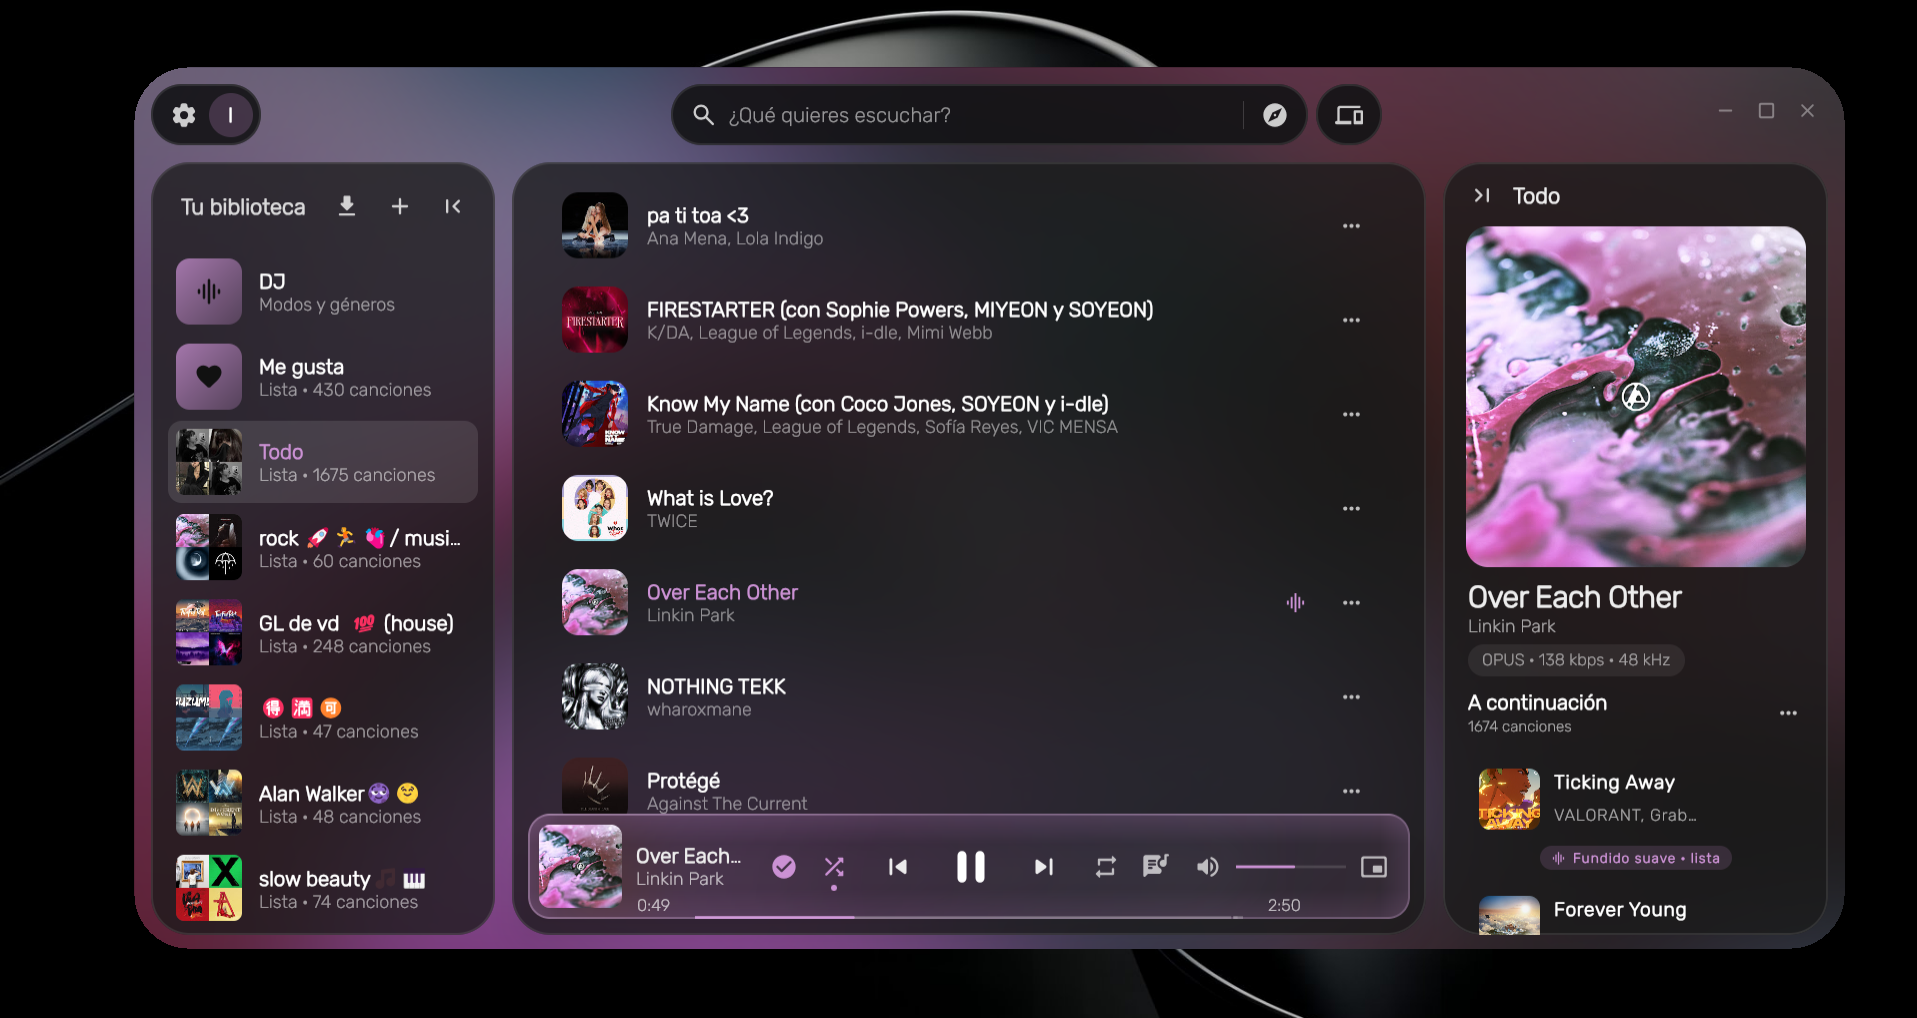
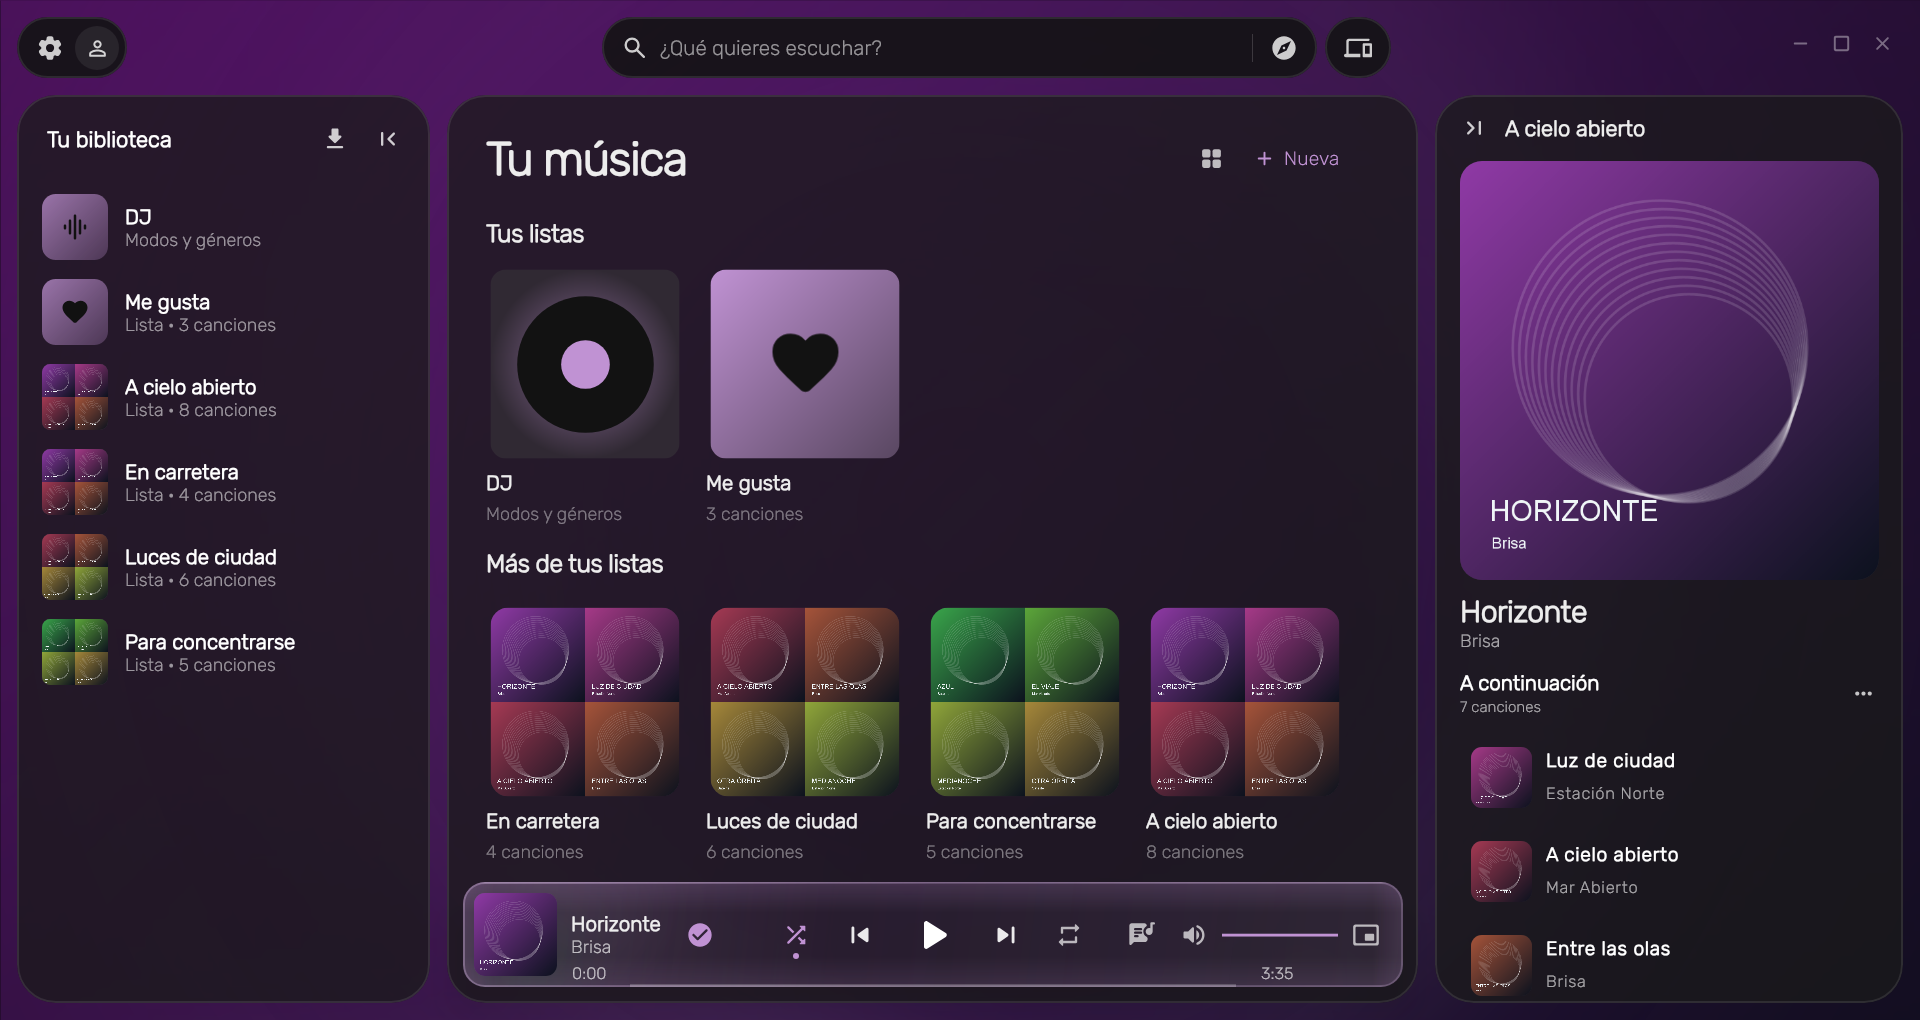
test(desktop): corregir expectativas de plataforma y esperas del DJ
Comprueba Extras según el sistema, espera estados coherentes en el DJ y amplía el diagnóstico de descargas. Ejecuta el script del actualizador con procesos aislados y sustituye la captura del README por datos ficticios con acento morado.

diff --git a/desktopApp/src/test/kotlin/io/github/iaguito22/oto/desktop/DesktopUpdatesTest.kt b/desktopApp/src/test/kotlin/io/github/iaguito22/oto/desktop/DesktopUpdatesTest.kt
@@ -4,6 +4,10 @@ import org.junit.Assert.assertEquals
 import org.junit.Assert.assertTrue
 import org.junit.Assume.assumeTrue
 import org.junit.Test
+import java.io.File
+import java.nio.file.Files
+import java.util.Base64
+import java.util.concurrent.TimeUnit
 
 class DesktopUpdatesTest {
     /** El script que instala la actualización se analiza sin errores en PowerShell 5.1 (no se ejecuta). */
@@ -20,5 +24,53 @@ class DesktopUpdatesTest {
     @Test fun elScriptVuelveAAbrirOtoAlAcabar() {
         val finally = installerScript.substringAfter("finally {")
         assertTrue("OTO_UPDATE_RELAUNCH" in finally && "Start-Process -FilePath \$env:OTO_UPDATE_RELAUNCH" in finally)
+    }
+
+    /** Ejecuta el script real y la espera al proceso; sustituye únicamente el instalador y el lanzador. */
+    @Test fun esperaAlCierreYLimpiaYReabreAunqueNoArranqueElInstalador() {
+        assumeTrue(System.getProperty("os.name").startsWith("Windows"))
+        val root = Files.createTempDirectory("oto actualización ' & ").toFile()
+        try {
+            for (installerFails in listOf(false, true)) {
+                val msi = File(root, "Oto prueba.msi").apply { writeText("instalador simulado") }
+                val launcher = File(root, "Oto.exe").apply { writeText("lanzador simulado") }
+                val parent = ProcessBuilder("powershell.exe", "-NoProfile", "-NonInteractive", "-Command", "Start-Sleep -Milliseconds 800").start()
+                val script = """
+                    ${'$'}ErrorActionPreference = 'Stop'
+                    function Start-Process {
+                        param([string]${'$'}FilePath, [string]${'$'}ArgumentList, [switch]${'$'}Wait)
+                        if (Get-Process -Id ${'$'}env:OTO_UPDATE_PARENT_PID -ErrorAction SilentlyContinue) { throw 'Oto sigue abierto' }
+                        if (${'$'}FilePath -like '*msiexec.exe') {
+                            if (-not ${'$'}Wait) { throw 'No espera al instalador' }
+                            if (${'$'}ArgumentList -cne ('/i "' + ${'$'}env:OTO_UPDATE_MSI + '"')) { throw 'Ruta MSI alterada' }
+                            Write-Output 'instalador invocado'
+                            ${if (installerFails) "throw 'No se pudo abrir el instalador'" else ""}
+                        } elseif (${'$'}FilePath -ceq ${'$'}env:OTO_UPDATE_RELAUNCH) {
+                            if (Test-Path -LiteralPath ${'$'}env:OTO_UPDATE_MSI) { throw 'MSI sin limpiar' }
+                            Write-Output 'Oto reabierto'
+                        } else { throw 'Lanzamiento inesperado' }
+                    }
+                    $installerScript
+                """.trimIndent()
+                val encoded = Base64.getEncoder().encodeToString(script.toByteArray(Charsets.UTF_16LE))
+                val process = ProcessBuilder("powershell.exe", "-NoProfile", "-NonInteractive", "-EncodedCommand", encoded)
+                    .redirectErrorStream(true).apply {
+                        environment()["OTO_UPDATE_PARENT_PID"] = parent.pid().toString()
+                        environment()["OTO_UPDATE_MSI"] = msi.absolutePath
+                        environment()["OTO_UPDATE_RELAUNCH"] = launcher.absolutePath
+                    }.start()
+                try {
+                    assertTrue("el script no terminó", process.waitFor(20, TimeUnit.SECONDS))
+                    val output = process.inputStream.bufferedReader().readText()
+                    assertEquals(output, if (installerFails) 1 else 0, process.exitValue())
+                    assertTrue(output, output.indexOf("instalador invocado") >= 0)
+                    assertTrue(output, output.indexOf("Oto reabierto") > output.indexOf("instalador invocado"))
+                    assertTrue("el MSI se elimina tras el instalador", !msi.exists())
+                } finally {
+                    process.destroy()
+                    parent.destroy()
+                }
+            }
+        } finally { root.deleteRecursively() }
     }
 }

diff --git a/desktopApp/src/test/kotlin/io/github/iaguito22/oto/desktop/playback/DesktopDjConnectionTest.kt b/desktopApp/src/test/kotlin/io/github/iaguito22/oto/desktop/playback/DesktopDjConnectionTest.kt
@@ -17,7 +17,9 @@ import io.github.iaguito22.oto.lyrics.LyricsStore
 import kotlinx.coroutines.CoroutineScope
 import kotlinx.coroutines.Dispatchers
 import kotlinx.coroutines.SupervisorJob
-import kotlinx.coroutines.cancel
+import kotlinx.coroutines.cancelAndJoin
+import kotlinx.coroutines.Job
+import kotlinx.coroutines.flow.combine
 import kotlinx.coroutines.flow.first
 import kotlinx.coroutines.runBlocking
 import kotlinx.coroutines.withTimeout
@@ -117,7 +119,7 @@ class DesktopDjConnectionTest {
                 test(player, songs)
             }
         } finally {
-            scope.cancel()
+            runBlocking { scope.coroutineContext[Job]!!.cancelAndJoin() }
             root.deleteRecursively()
         }
     }
@@ -168,32 +170,39 @@ class DesktopDjConnectionTest {
 
         val vetoedId = player.djNextUp.value[1].track.id
         player.vetoDjNextUp(vetoedId)
-        withTimeout(10_000L) {
-            player.djNextUp.first { picks -> picks.size >= 3 && picks.none { it.track.id == vetoedId } }
+        // Son dos StateFlow distintos: observar nextUp no implica que queue ya haya emitido.
+        val (nextUpIds, futureQueueIds) = withTimeout(10_000L) {
+            combine(player.djNextUp, player.queue) { picks, queue ->
+                picks.map { it.track.id } to queue.drop(player.state.value.index + 1).map { it.id }
+            }.first { (picks, queue) -> picks.size >= 3 && vetoedId !in picks && queue.startsWith(picks) }
         }
-        val nextUpIds = player.djNextUp.value.map { it.track.id }
         assertFalse("El tema vetado no debe seguir en djNextUp", vetoedId in nextUpIds)
-        val futureQueueIds = player.queue.value.drop(player.state.value.index + 1).map { it.id }
         assertEquals(nextUpIds, futureQueueIds.take(nextUpIds.size))
 
         val beforeTrackId = player.state.value.id
         val tandaBefore = player.djTanda.value
         player.skipDjTanda()
-        withTimeout(10_000L) {
-            player.state.first { it.id != null && it.id != beforeTrackId }
-            player.djNextUp.first { it.size >= 2 }
+        val after = withTimeout(10_000L) {
+            combine(player.state, player.djNextUp, player.queue, player.djTanda) { now, picks, queue, tanda ->
+                DjQueueSnapshot(now.id, tanda, picks.map { it.track.id }, queue.drop(now.index + 1).map { it.id })
+            }.first { snapshot ->
+                snapshot.id != null && snapshot.id != beforeTrackId && snapshot.tanda != null &&
+                    snapshot.tanda != tandaBefore && snapshot.picks.size >= 2 && snapshot.queue.startsWith(snapshot.picks)
+            }
         }
-        val newTrackId = player.state.value.id
+        val newTrackId = after.id
         assertNotNull(newTrackId)
-        assertNotNull("djTanda debe actualizarse con el género de la nueva tanda", player.djTanda.value)
-        assertNotEquals("djTanda debe cambiar de género al saltar ambiente", tandaBefore, player.djTanda.value)
-        assertFalse("djTanda no debe incluir 'Como ...'", player.djTanda.value!!.contains("como", ignoreCase = true))
+        assertNotNull("djTanda debe actualizarse con el género de la nueva tanda", after.tanda)
+        assertNotEquals("djTanda debe cambiar de género al saltar ambiente", tandaBefore, after.tanda)
+        assertFalse("djTanda no debe incluir 'Como ...'", after.tanda!!.contains("como", ignoreCase = true))
         assertTrue(
             "La cola futura tras skipDjTanda debe reflejar los nuevos nextUp",
-            player.queue.value.drop(player.state.value.index + 1).map { it.id }.startsWith(player.djNextUp.value.map { it.track.id }),
+            after.queue.startsWith(after.picks),
         )
     }
 
     private fun <T> List<T>.startsWith(prefix: List<T>): Boolean =
         size >= prefix.size && subList(0, prefix.size) == prefix
+
+    private data class DjQueueSnapshot(val id: String?, val tanda: String?, val picks: List<String>, val queue: List<String>)
 }

diff --git a/desktopApp/src/test/kotlin/io/github/iaguito22/oto/desktop/playback/DesktopDownloadsTest.kt b/desktopApp/src/test/kotlin/io/github/iaguito22/oto/desktop/playback/DesktopDownloadsTest.kt
@@ -8,12 +8,14 @@ import org.junit.Assert.*
 import org.junit.Test
 import java.io.File
 import java.nio.file.Files
+import java.util.concurrent.CopyOnWriteArrayList
 
 class DesktopDownloadsTest {
     @Test fun removingActiveDownloadCancelsWorkBeforeDeletingWindowsFiles(): Unit = runBlocking {
         val root = Files.createTempDirectory("oto-download-cancel").toFile()
         OtoDirs.init(root, File(root, "cache"))
-        val scope = CoroutineScope(SupervisorJob() + Dispatchers.Default)
+        val errors = CopyOnWriteArrayList<Throwable>()
+        val scope = CoroutineScope(SupervisorJob() + Dispatchers.Default + CoroutineExceptionHandler { _, error -> errors += error })
         val prefs = Prefs(
             PreferenceDataStoreFactory.create(scope = scope, produceFile = { File(root, "prefs.preferences_pb") }),
             PreferenceDataStoreFactory.create(scope = scope, produceFile = { File(root, "lists.preferences_pb") }),
@@ -31,12 +33,18 @@ class DesktopDownloadsTest {
             val song = Heard("test", "Prueba", "Codex", null)
             prefs.setDownloadSong(song, true)
             // Márgenes amplios: en la CI o con otra compilación a la vez, 5 s no llegaban (no es una prueba de velocidad).
-            assertNotNull("la descarga no empezó", withTimeoutOrNull(30_000) { started.await() })
+            val begun = withTimeoutOrNull(30_000) { started.await() }
+            assertNotNull("la descarga no empezó; entradas=${downloads.entries.value}; errores=${errors.joinToString { it.stackTraceToString() }}", begun)
             prefs.setDownloadSong(song, false)
             assertNotNull("no se canceló la descarga en curso", withTimeoutOrNull(30_000) { cancelled.await() })
             assertNotNull("la entrada siguió en la lista", withTimeoutOrNull(30_000) { downloads.entries.first { "test" !in it } })
             assertFalse(part.exists())
             assertFalse(downloads.has("test"))
-        } finally { downloads.stop(); scope.cancel(); root.deleteRecursively() }
+            assertTrue("errores en las corrutinas: $errors", errors.isEmpty())
+        } finally {
+            downloads.stop()
+            scope.coroutineContext[Job]!!.cancelAndJoin()
+            root.deleteRecursively()
+        }
     }
 }

diff --git a/desktopApp/src/test/kotlin/io/github/iaguito22/oto/desktop/ui/ExtrasSpaceUiTest.kt b/desktopApp/src/test/kotlin/io/github/iaguito22/oto/desktop/ui/ExtrasSpaceUiTest.kt
@@ -12,6 +12,7 @@ import androidx.compose.ui.input.pointer.PointerEventType
 import androidx.compose.ui.unit.Density
 import io.github.iaguito22.oto.OtoDirs
 import io.github.iaguito22.oto.desktop.wallpaper.WallpaperStore
+import io.github.iaguito22.oto.desktop.wallpaper.wallpaperSupported
 import org.jetbrains.skia.EncodedImageFormat
 import org.junit.Assert.assertEquals
 import org.junit.Assert.assertTrue
@@ -44,19 +45,24 @@ class ExtrasSpaceUiTest {
         val scene = ImageComposeScene(760, 1500, Density(1f)) {
             Box(Modifier.fillMaxSize().background(Color(0xFF151A18))) { ExtrasSpace(Color(0xFF8FD0C6), onBack = { back = true }) }
         }
-        scene.shot("1-inicio")
-        // fila «Fondo de escritorio vivo»: debajo de la cabecera
-        scene.click(380f, Y_TOGGLE)
-        scene.shot("2-encendido")
-        assertTrue("el clic enciende el fondo", WallpaperStore.enabled.value)
-        scene.click(380f, Y_TOGGLE)
-        assertEquals("y lo apaga", false, WallpaperStore.enabled.value)
-        // apartado «Fondo» (plegado) → se abre y se elige «Negro»
-        scene.click(380f, Y_FONDO)
-        scene.shot("3-fondo-abierto")
-        scene.click(30f, 30f)
-        assertTrue("la cabecera vuelve a Ajustes", back)
-        scene.close()
+        try {
+            scene.shot("1-inicio")
+            // fila «Fondo de escritorio vivo»: debajo de la cabecera
+            scene.click(380f, Y_TOGGLE)
+            scene.shot("2-tras-clic")
+            assertEquals("solo Windows permite encender el fondo", wallpaperSupported, WallpaperStore.enabled.value)
+            scene.click(380f, Y_TOGGLE)
+            assertEquals("y lo apaga", false, WallpaperStore.enabled.value)
+            // apartado «Fondo» (plegado) → se abre
+            scene.click(380f, Y_FONDO)
+            scene.shot("3-fondo-abierto")
+            scene.click(30f, 30f)
+            assertTrue("la cabecera vuelve a Ajustes", back)
+        } finally {
+            scene.close()
+            WallpaperStore.setEnabled(false)
+            dir.deleteRecursively()
+        }
     }
 
     companion object { const val Y_TOGGLE = 120f; const val Y_FONDO = 1248f }

diff --git a/docs/agents/pendientes.md b/docs/agents/pendientes.md
@@ -4,9 +4,9 @@
 
 ## Tras la 2.3.0
 
-- CI en Linux (26/11, run 45786446979): fallan 3 tests del escritorio que en Windows pasan. `ExtrasSpaceUiTest` («el clic enciende el fondo»: ¿la fila cae en otra posición con las fuentes de Linux?), `DesktopDownloadsTest` («la descarga no empezó» en 30 s) y `DesktopDjConnectionTest.vetoDjNextUp…` (sale `[chill-2, chill-6, rock-9]`, se esperaba `[chill-2, rock-7, rock-8]`). Informes en el artefacto `informes-tests` del run.
-- Rehacer la captura del README (`docs/escritorio-una-ventana.png`) con un perfil de prueba: aún sale el «+» de «Crear lista» y se ven las listas reales de Iago.
-- Actualizador: la 2.3.0 es la primera que lo lleva. En Windows no está probado de verdad lo que pasa tras descargar (cerrar Oto, abrir el MSI y volver a abrir Oto): probarlo con la 2.3.1. Sí está comprobado con red: consulta, elección del archivo, descarga por la redirección de GitHub y SHA-256 (`OTO_UPDATE_LIVE=1`, `OtoUpdatesLiveTest`).
+- CI en Linux (26/11, run 45786446979): pendiente de volver a ejecutar con las correcciones locales. `ExtrasSpaceUiTest` esperaba encender una función exclusiva de Windows: ahora comprueba que en Linux permanece apagada y que se puede volver a Ajustes. `DesktopDjConnectionTest.vetoDjNextUp…` leía `djNextUp` y `queue` entre sus emisiones: ahora espera una instantánea coherente, también al saltar de tanda. Los tests de escritorio pasan en Windows; aún sin validar estos cambios en Linux.
+- `DesktopDownloadsTest` en esa misma CI: «la descarga no empezó» en 30 s. No reproducido con los tests de escritorio en Windows; causa sin confirmar. Se añaden el estado de las entradas y las excepciones de las corrutinas al fallo, y se espera su cancelación antes de borrar el perfil de prueba. No darlo por arreglado hasta reproducirlo o verificarlo en Linux. Informes originales en el artefacto `informes-tests` del run.
+- Actualizador: la 2.3.0 es la primera que lo lleva. Falta probar la actualización real por MSI con la 2.3.1. `DesktopUpdatesTest` ejecuta en Windows el script real, espera a que termine un proceso y comprueba la limpieza del MSI y la reapertura con instalador y lanzador simulados; no instala nada. Sí está comprobado con red: consulta, elección del archivo, descarga por la redirección de GitHub y SHA-256 (`OTO_UPDATE_LIVE=1`, `OtoUpdatesLiveTest`).
 
 ## Bugs (noche de pruebas 23/11)
 
@@ -32,6 +32,7 @@ No eran bugs: el DJ normal sale hasta 75 s antes del final porque así lo pidió
 - Enlace: «si cambias, la cola vuelve a empezar» (24/11). Causa probable, arreglada: con el PC mostrando el móvil, el panel «Cola» listaba la cola del móvil desde la primera canción (ya sonadas incluidas) y no desde la que suena (`remoteUpcoming`, `RemoteQueueTest`). En el código, el traspaso (índice, posición, cola manual) es correcto; sin probar con el móvil real.
 - Luces: en el PC de Iago, `%APPDATA%\oto\laboratorio-visual` es un enlace (junction) a `scratchpad/laboratorio-visual` para que la fila salga en Extras. Si se mueve el laboratorio, rehacer el enlace.
 - Fondo vivo: espectro nuevo (graves con FFT de 8192 y menos barras por nota; agudos compensados 6 dB por octava solo por encima de 1 kHz; punto muerto del 20 %, 24/11 tras «el bajo sube poco y los agudos casi siempre activos»). Probado con señales; falta que Iago lo vea con música.
+- Convivencia del fondo vivo, la hora y los controles con Wallpaper Engine: sin probar. Oto pinta una imagen estática del fondo de Windows y coloca sus ventanas en Progman/WorkerW; podría tapar la animación o dejar recuadros estáticos en los widgets. No afirmar compatibilidad sin probar ambos a la vez.
 - Escucha de las mezclas del DJ en general (el agente no oye). Confirmado por Iago el 19/11: «Faint» va a tiempo y no hay distorsión tras un cuadre de beats.
 
 ## Mejoras

diff --git a/docs/agents/escritorio-ui.md b/docs/agents/escritorio-ui.md
@@ -58,6 +58,7 @@
 
 - Apagado por defecto; solo Windows. Se enciende en Extras o en la bandeja («Poner / Quitar fondo vivo»). Código en `desktop/wallpaper/`.
 - Son elementos encima del fondo de pantalla de siempre, no un fondo nuevo: la ventana va dentro de Progman, justo debajo de los iconos (Windows 11 24H2+) o en el WorkerW clásico, y pinta el fondo actual (registro `WallPaper` o `TranscodedWallpaper`) debajo. Al apagarlo se repinta el fondo de Windows.
+- Esto reproduce el fondo estático de Windows. La convivencia con Wallpaper Engine u otros fondos animados externos no está probada: la ventana completa puede taparlos y los widgets independientes pueden dejar recuadros estáticos. No presentar «tu fondo actual» como garantía de compatibilidad con esos programas.
 - Valores por defecto (los que eligió Iago en el laboratorio): estilo «Barras en anillo» (cambiado por Iago el 23/11; antes NCS), intensidad del aro NCS 85 %, resplandor 60 %, carátula dentro, «Tu fondo actual», sombra 50 %, partículas apagadas, letra donde haya sitio, 120 fps (Iago, 23/11; nunca más que la pantalla), ahorro sin música y sin pintar mientras algo tapa el escritorio (pantalla completa o cualquier ventana maximizada en ese monitor, `WallpaperHost.desktopHidden`).
 - El audio sale de `AudioTap` (copia de lo que va a la línea, solo con el fondo encendido) y se analiza en vivo (`Spectrum`); no hay análisis previo de la canción.
 - La letra del fondo usa el mismo adelanto que la de la app (`MobileLyrics.leadMs`: 250 ms palabra a palabra, 100 ms línea a línea); sin él iba tarde.

diff --git a/README.md b/README.md
@@ -3,7 +3,7 @@
 Reproductor de música para Android y escritorio sobre YouTube Music. En el móvil se maneja con una gota y gestos. En el ordenador puedes usar una sola ventana o acoplar varias. Los dos se vinculan y comparten tus listas.
 
 <p align="center">
-  <img src="docs/escritorio-una-ventana.png" width="960" alt="Oto en modo Una ventana, con la biblioteca a la izquierda, las canciones al centro, la cola a la derecha y el reproductor flotante abajo">
+  <img src="docs/escritorio-una-ventana.png" width="960" alt="Oto en modo Una ventana con datos ficticios: biblioteca a la izquierda, listas al centro, cola a la derecha y reproductor flotante abajo">
 </p>
 
 - [Instalar](#instalar)
